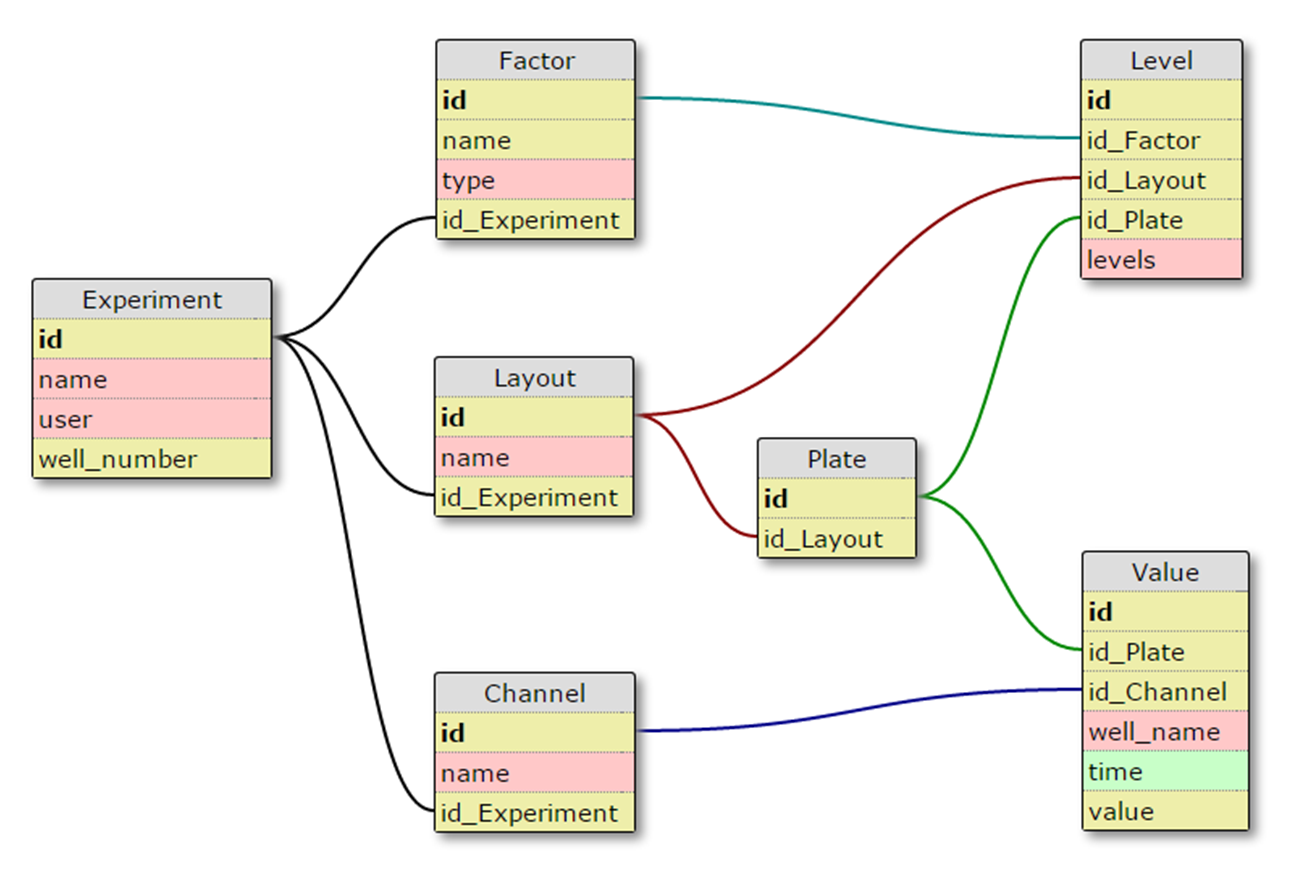
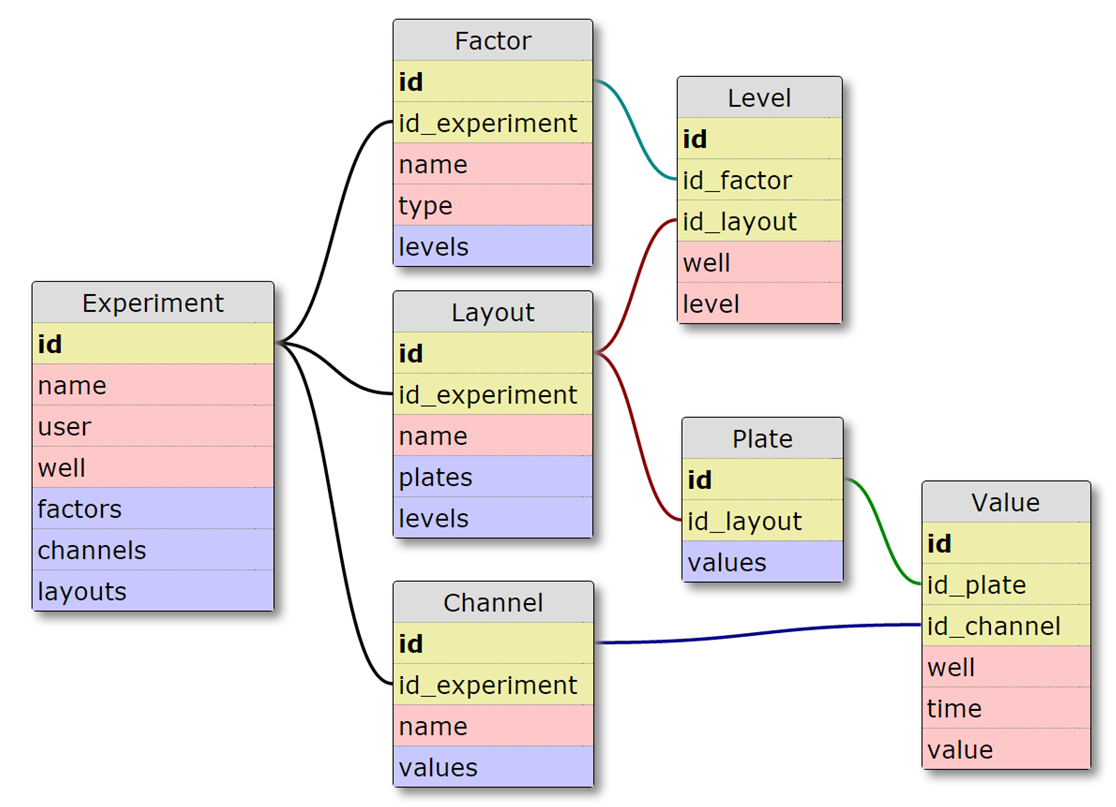
Update documentations

diff --git a/docs/design.rst b/docs/design.rst
@@ -1,6 +1,7 @@
-******************
-Design of Software
-******************
+*****************
+Design Principles
+*****************
+
 The cell array research can be organized at three different levels: experiment,
 layout and plate. Accordingly, the data are organized with these three levels
 too.
@@ -20,11 +21,13 @@ wells. For example:
 +------+------+------+-----+
 | Well | Gene | Dose | ... |
 +======+======+======+=====+
-| 1    | 'aa' | 42   | ... |
+| A01  | 'aa' | 42   | ... |
 +------+------+------+-----+
-| 2    | 'aa' | 4.2  | ... |
+| A02  | 'aa' | 4.2  | ... |
 +------+------+------+-----+
 | ...  | ...  | ...  | ... |
++------+------+------+-----+
+| H12  | 'cc' | 4.2  | ... |
 +------+------+------+-----+
 
 

diff --git a/README.md b/README.md
@@ -3,6 +3,22 @@ Time series visualization and analysis.
 
 A visualization tool to visualize gene expression time series data.
 
+# User Interface
+Interface to define experiment information, including factors (independent
+variables) and channels (dependent variables).
+
+![Experiment Information](/docs/images/experiment.png)
+
+Interface to define experimental conditions, namely the levels of factors for
+each well in the plates.
+
+![Layout Information](/docs/images/layout.png)
+
+Interface to query and visualize time series data based on conditions of
+interest.
+
+![Visualization](/docs/images/gene_vis.png)
+
 # Installation
 
 We recommend you install the package under virtualenv

diff --git a/docs/instruction.rst b/docs/instruction.rst
@@ -1,0 +1,24 @@
+****************
+User Instruction
+****************
+
+1. Experiment Information
+=========================
+
+.. figure:: /images/experiment.png
+
+   Figure 1. Experiment information interface.
+
+2. Layout Information
+=====================
+
+.. figure:: /images/layout.png
+
+   Figure 2. Layout information interface.
+
+3. Timeseries Visualization
+===========================
+
+.. figure:: /images/gene_vis.png
+
+   Figure 3. Time series visualization interface.

diff --git a/docs/interface.rst b/docs/interface.rst
@@ -1,6 +1,11 @@
-***********************
-Front End Documentation
-***********************
+*********************
+Interface Development
+*********************
+
+The user interface of ``timevis`` is web based. The whole application is a
+single webpage. Thanks to HTML template engine `Jinja2
+<http://jinja.pocoo.org/>`_, we are able to separate different functionalities
+into individual modular pages, see ``timevis/template`` folder.
 
 1. Knockout View Models
 =======================

diff --git a/docs/index.rst b/docs/index.rst
@@ -15,6 +15,7 @@ User's Guide
 
    install
    design
+   instruction
 
 Developer's Guide
 -----------------
@@ -25,4 +26,4 @@ Developer's Guide
    dev
    api_v2
    database
-   frontend
+   interface

diff --git a/docs/database.rst b/docs/database.rst
@@ -1,5 +1,5 @@
 ***************
-Database design
+Database Design
 ***************
 
 The following image shows the design of database:
